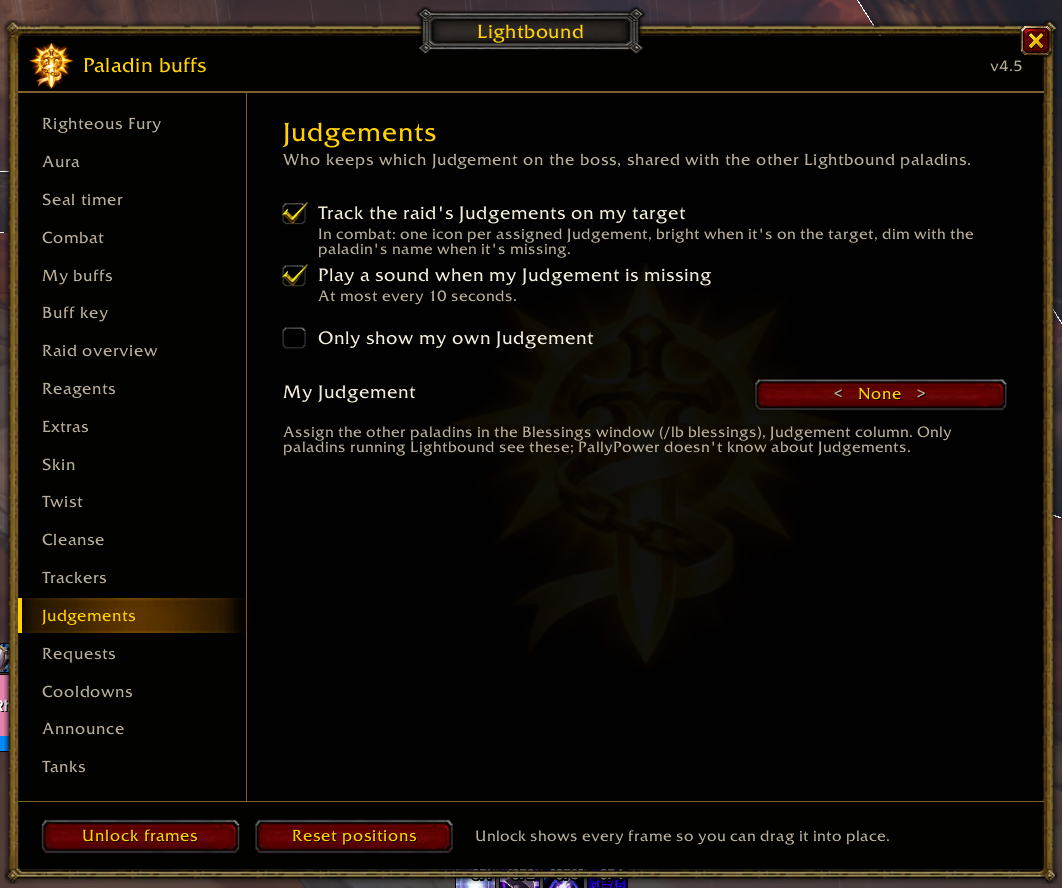
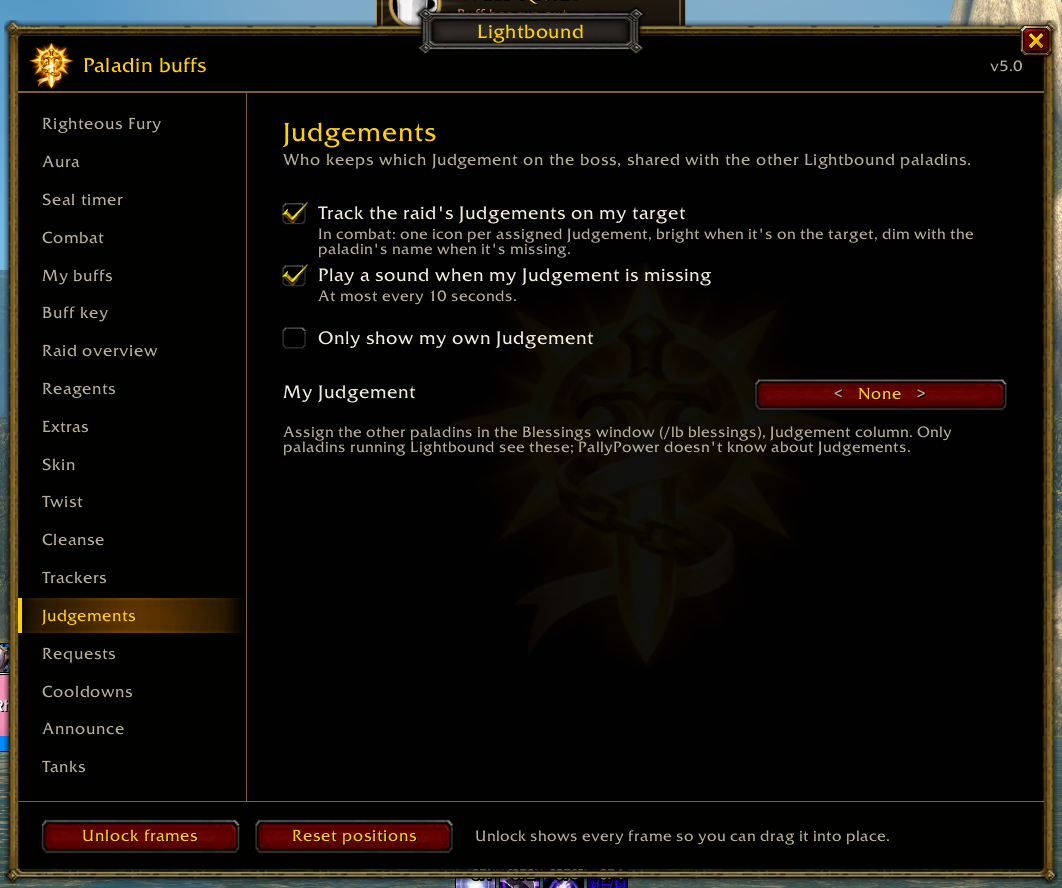
Lightbound 5.0: first release out of beta (#5)
* Lightbound 5.0: version, changelog, What's new; every options page has its screenshot on the wiki

* Docs: screenshots of 5.0 from /bk shots

---------

diff --git a/CURSEFORGE.md b/CURSEFORGE.md
@@ -6,12 +6,15 @@ Lightbound buffs your party and raid with a single key, sorts out who blesses wh
 
 **Full guide with screenshots: https://antnsn.github.io/Lightbound/**
 
-## What's new in 4.6
+## What's new in 5.0
+The first release out of beta.
+
 - **Twist bar** for Retribution with Unsealed Wrath: three pips with your real Echo stacks (drawn by the game, in combat too), a swing bar, and a pulsing TWIST when it's time to swap seals, and again when it's time to swap back. Judgement and Holy Strike icons alongside.
 - **Blessings window: Players tab.** One line per player: give one player their own blessing, and mark tanks right there.
 - **Carrot on a Stick** goes on when you mount and your trinket comes back when you get off (off by default).
 - **"Drinking"** in party chat when you sit down to drink, by default only in dungeons and raids (off by default).
 - The seal timer no longer restarts on a Seal of Command proc.
+- Update with the game closed: this version loads new files.
 
 Every version's changes are in the changelog at the bottom of this page.
 
@@ -79,6 +82,18 @@ Source and issues: https://github.com/antnsn/Lightbound
 
 ## Changelog
 <!-- changelog:start -->
+### 5.0
+
+The first release out of beta.
+
+- Twist bar (new page Twist): for Retribution with Unsealed Wrath. Three pips that show your real Echo stacks (drawn by the game, in combat too), a swing bar, and a pulsing TWIST above it as soon as three copies are stored, and again when it is time to go back. Judgement and Holy Strike icons alongside. A swing your target dodges, parries or that misses isn't counted.
+- Seal timer: a Seal of Command proc no longer restarts the 30 second timer.
+- Announce: "Say when you drink" posts "Drinking" in party chat when you start drinking in a group, by default only in dungeons and raids. Off by default, under Announce.
+- Blessings window: a new **Players** tab with one line per player. Set a blessing for one player only (grey follows the class, gold is that player's own), and mark tanks right there. A player with their own blessing no longer counts as missing the class blessing.
+- Carrot on a Stick (page Extras, off by default): worn while you're mounted, in the trinket slot you pick, and your own trinket goes back on when you get off. Not in instances; waits until combat is over.
+- Cleanse page: "Show when solo" and "Names in grid cells" share a row, so the ignore list at the bottom fits.
+- Lightbound.toc loads new files, so update with the game closed.
+
 ### 4.5
 
 - Skins: pick how Lightbound looks on the new Skin page in `/lb`. Lightbound (the gold look, default), Blizzard (the game's own grey and silver frames) or Flat (thin black edges on dark grey, to sit next to EllesmereUI or ElvUI). A new skin applies after a reload. Colours that mean something (missing, debuff types, class colours) stay the same in every skin.

diff --git a/CHANGELOG.md b/CHANGELOG.md
@@ -1,13 +1,16 @@
 # Lightbound changelog
 
-## Unreleased
+## 5.0
+
+The first release out of beta.
 
 - Twist bar (new page Twist): for Retribution with Unsealed Wrath. Three pips that show your real Echo stacks (drawn by the game, in combat too), a swing bar, and a pulsing TWIST above it as soon as three copies are stored, and again when it is time to go back. Judgement and Holy Strike icons alongside. A swing your target dodges, parries or that misses isn't counted.
 - Seal timer: a Seal of Command proc no longer restarts the 30 second timer.
 - Announce: "Say when you drink" posts "Drinking" in party chat when you start drinking in a group, by default only in dungeons and raids. Off by default, under Announce.
 - Blessings window: a new **Players** tab with one line per player. Set a blessing for one player only (grey follows the class, gold is that player's own), and mark tanks right there. A player with their own blessing no longer counts as missing the class blessing.
 - Carrot on a Stick (page Extras, off by default): worn while you're mounted, in the trinket slot you pick, and your own trinket goes back on when you get off. Not in instances; waits until combat is over.
-- Lightbound.toc loads a new file, so update with the game closed.
+- Cleanse page: "Show when solo" and "Names in grid cells" share a row, so the ignore list at the bottom fits.
+- Lightbound.toc loads new files, so update with the game closed.
 
 ## 4.5
 

diff --git a/docs/features/cooldowns-and-divine-intervention.md b/docs/features/cooldowns-and-divine-intervention.md
@@ -46,6 +46,8 @@ Know which paladin still has Blessing of Protection or Divine Shield, put Divine
 
 In `/lb`, page **Cooldowns**:
 
+![Cooldowns options page]({{ '/screenshots/options-cooldowns.png' | relative_url }})
+
 | Setting | Default | What it does |
 | --- | --- | --- |
 | Show the cooldowns frame | On | The frame itself. |
@@ -53,6 +55,8 @@ In `/lb`, page **Cooldowns**:
 | Include my own row | On | Your row, including Forbearance. |
 
 In `/lb`, page **Announce**:
+
+![Announce options page]({{ '/screenshots/options-announce.png' | relative_url }})
 
 **Divine Intervention**
 

diff --git a/docs/features/warnings-and-trackers.md b/docs/features/warnings-and-trackers.md
@@ -29,6 +29,7 @@ Small reminders for everything a paladin forgets mid-dungeon: a missing Righteou
 
 - A vertical bar that empties while your seal runs out, coloured by the seal, with the seal's icon on top and the seconds below. The seconds turn red in the last 5.
 - In combat with no seal up, an empty bar says **NO SEAL**.
+- Only a seal you cast starts the timer again. A Seal of Command proc doesn't.
 
 ### My buffs
 

diff --git a/docs/features/skins.md b/docs/features/skins.md
@@ -19,6 +19,8 @@ Lightbound comes in three looks. They all work the same way, only the frames loo
 
 ## How to switch
 
+![Skin options page]({{ '/screenshots/options-skin.png' | relative_url }})
+
 1. Type `/lb` and open the **Skin** page.
 2. Click the **Skin** button to step through the skins (right-click goes back).
 3. Click **Reload now**, or type `/reload` later. The new skin shows after the reload.

diff --git a/docs/features/judgements.md b/docs/features/judgements.md
@@ -34,6 +34,8 @@ This is separate from the single **Judgement icon** on the Combat page, which sh
 
 In `/lb`, page **Judgements**:
 
+![Judgements options page]({{ '/screenshots/options-judgements.png' | relative_url }})
+
 | Setting | Default | What it does |
 | --- | --- | --- |
 | Track the raid's Judgements on my target | On | The row of icons in combat. |

diff --git a/docs/features/twist-bar.md b/docs/features/twist-bar.md
@@ -54,6 +54,8 @@ Press it when `TWIST` shows. It casts the next seal in the sequence, starting ov
 
 Page **Twist** in `/lb`.
 
+![Twist options page]({{ '/screenshots/options-twist.png' | relative_url }})
+
 | Setting | Default | What it does |
 | --- | --- | --- |
 | Show the twist bar | On | |

diff --git a/docs/features/raid-overview-and-requests.md b/docs/features/raid-overview-and-requests.md
@@ -66,6 +66,8 @@ In `/lb`, page **Raid overview**:
 
 In `/lb`, page **Requests**:
 
+![Requests options page]({{ '/screenshots/options-requests.png' | relative_url }})
+
 | Setting | Default | What it does |
 | --- | --- | --- |
 | Show blessing requests | On | Turns requests on or off. |
